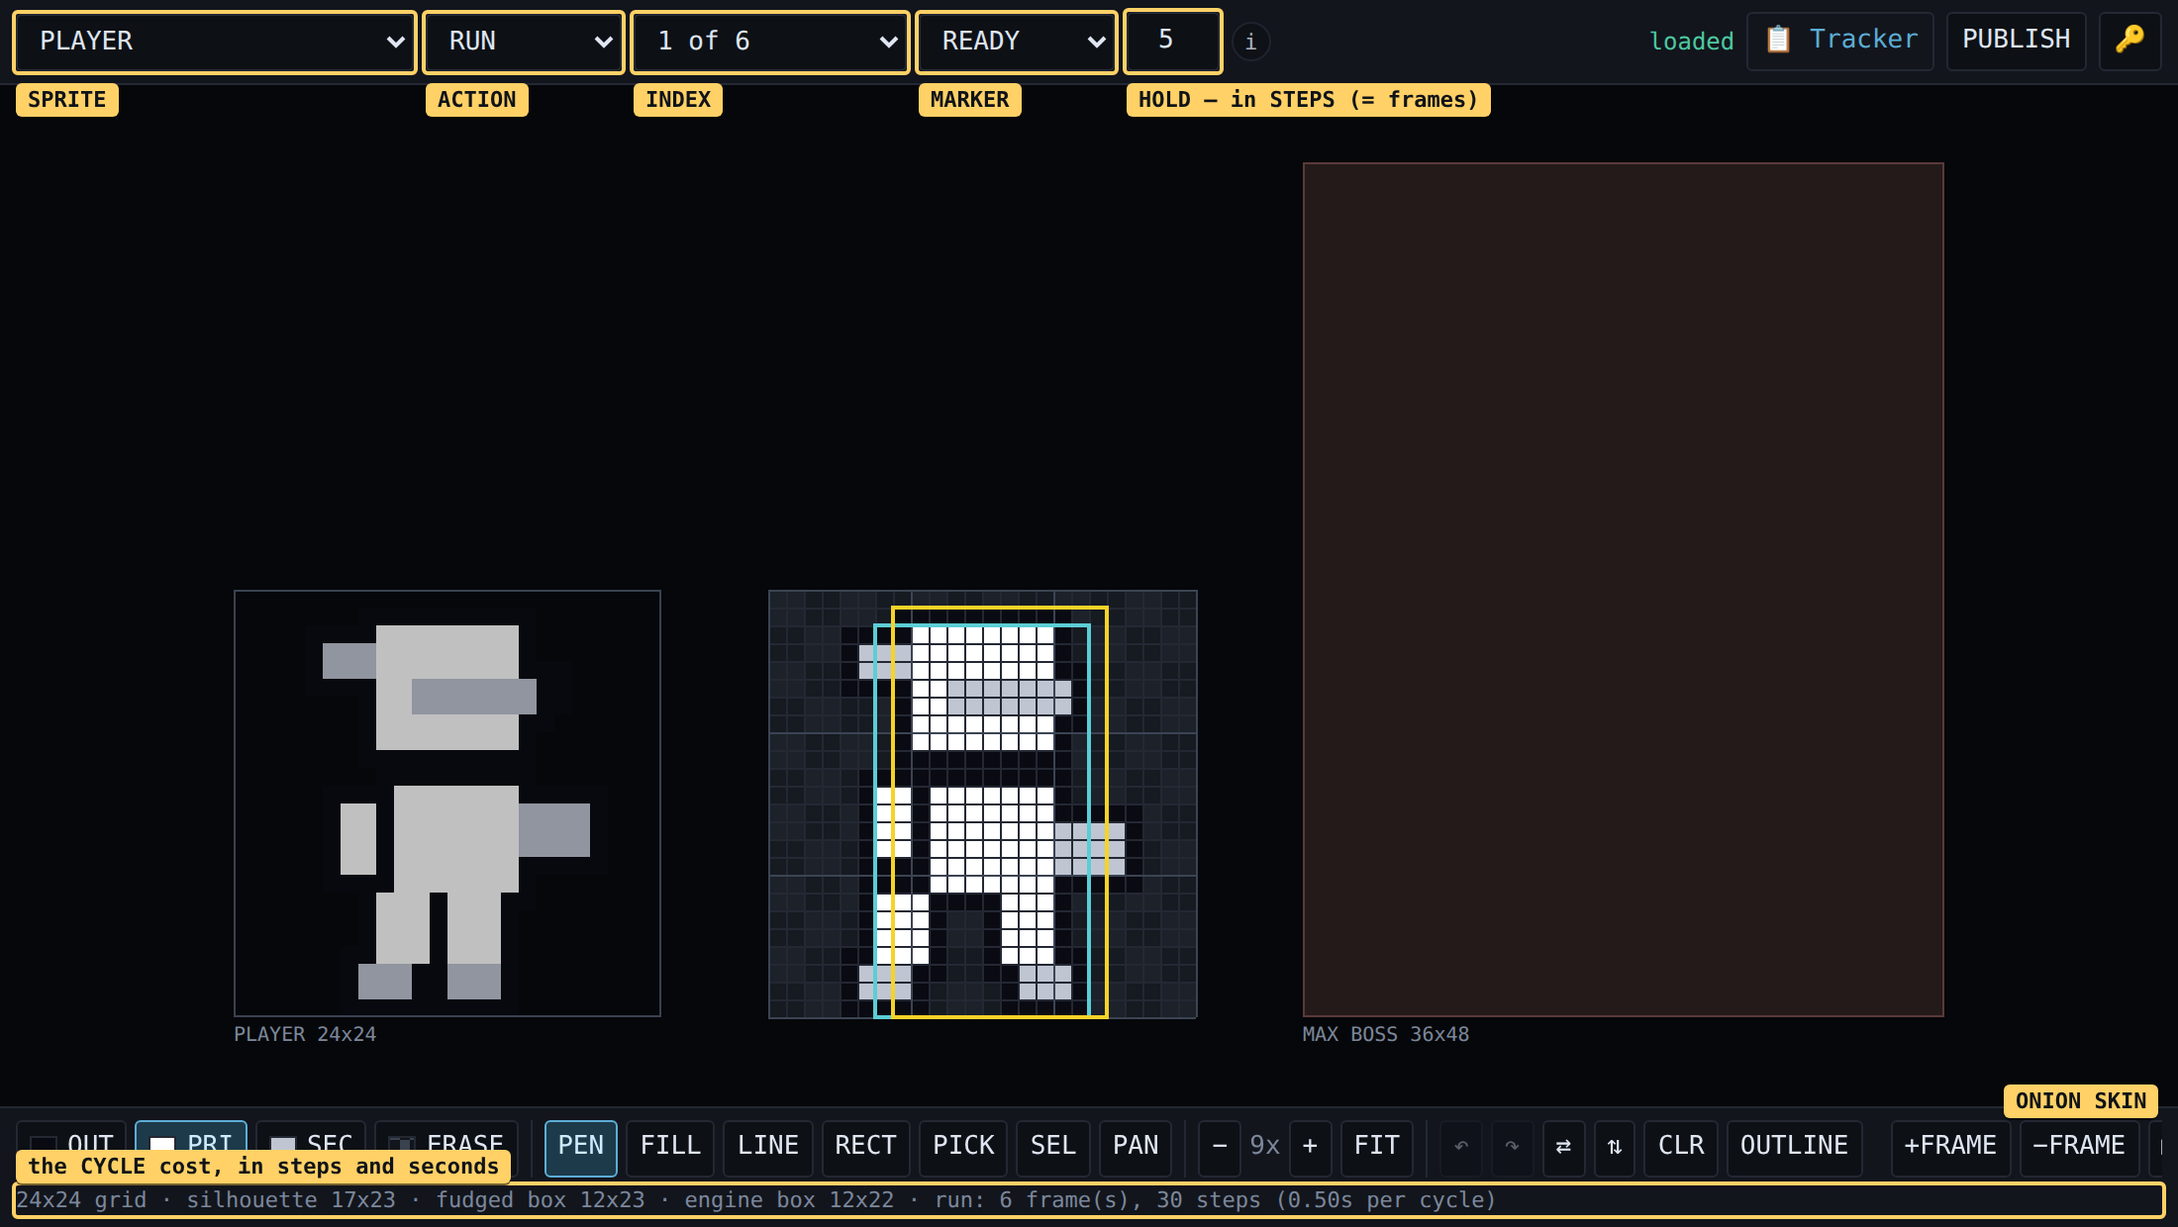
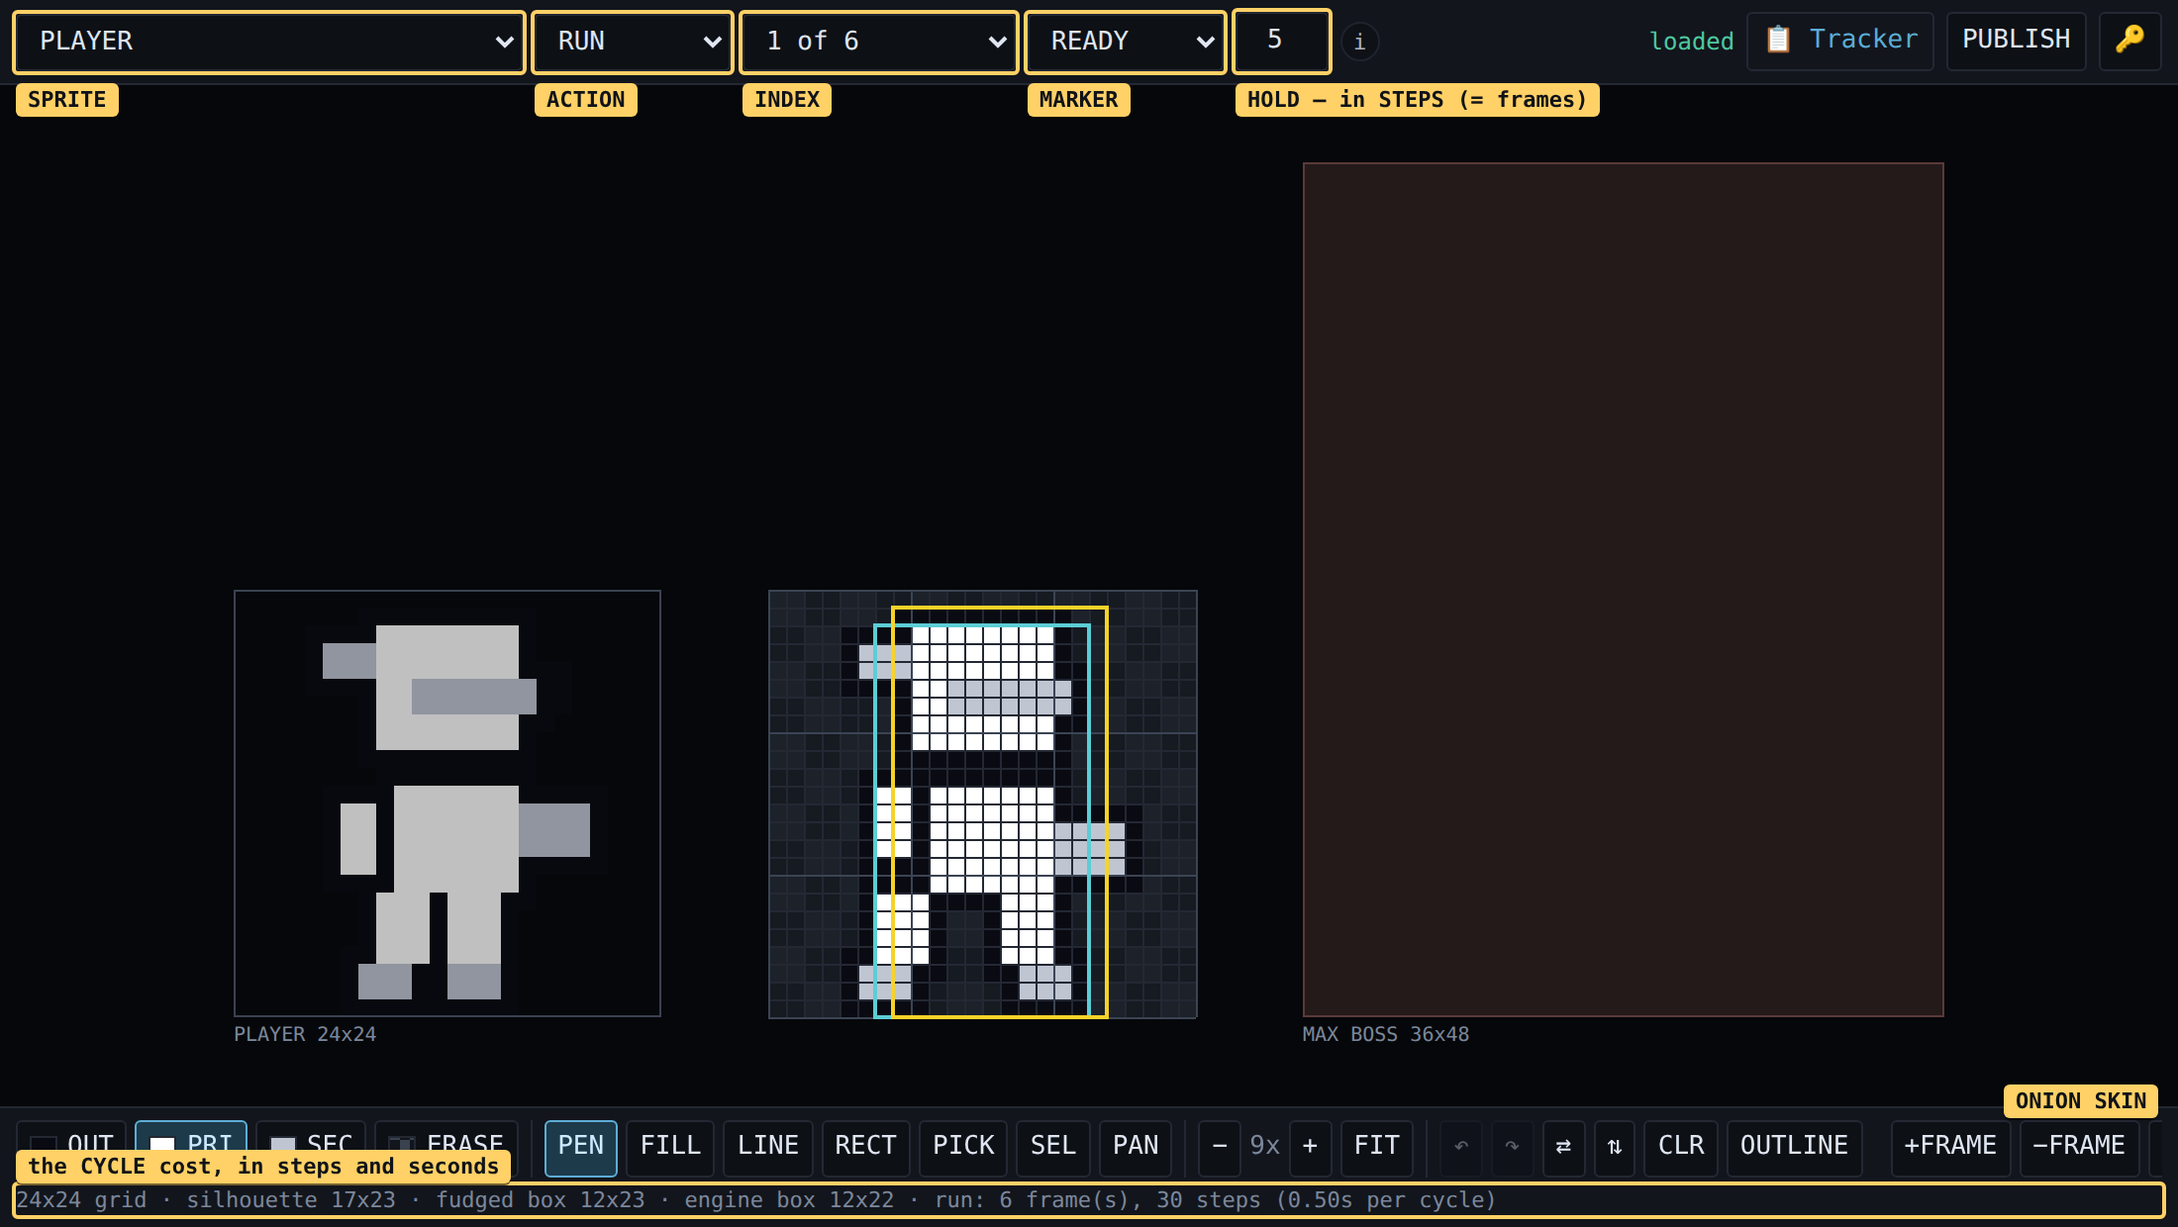
The glossary learns the game's own words
The glossary covered timing, pictures, the build pipeline, markers and
the engineering vocabulary — everything except the words the game
itself is made of. Five sections added, in plain English:

  A run, start to finish   run, area, door, arena, warp, layer, the
                           bag, ramp, slice
  Hitting and being hit    hurtbox, hitbox, i-frames, flinch,
                           knockback, beam out, projectile, hitscan,
                           puff, attribute
  Enemies                  minion, elite, boss, hazard, furniture
  Weapons and the loadout  sidearm, special, slot, bench, class,
                           live vs aimed, ladder, rung, mastery,
                           re-quip, the wheel, in-situ
  What you earn            EXP, level, weapon level, Chips, Upgrade,
                           meta, E-Tank

Where a word IS jargon it is named as jargon rather than defended.
`in-situ` is Latin for "in place" and gets a row saying so, because
the code will keep saying `SITU_TIMEOUT_MS` whatever this file calls
it — a glossary that only lists the nice words leaves the reader
stranded at the one that stopped them.

Added at the top: a word that is in the code but not on this page is
a bug in THIS page. Nothing here is allowed to need a word only its
author knows.

TRACKER.md, two things factually stale:

  the player's sprite grid said twelve frames in a 288x24 sheet; the
  owner drew a third slide pose and it is fourteen in 336x24
[…]

Changed region(s): [[0.1855, 0.0, 0.7418, 0.1226]]

diff --git a/design/TRACKER.md b/design/TRACKER.md
@@ -22,9 +22,14 @@ typo fix goes back in the queue to be re-checked instead of disappearing into
 `[wip]` where nothing looks at it. A larger edit is a rewrite and drops to
 `[wip]`. Editing a `[draft]` withdraws the go-ahead and drops to `[wip]`.
 
-Moving a field to `[draft]` yourself is the assertion that it may be built.
-Claude never writes `[draft]` — only `[ready]`, and only once the thing
-verifiably works.
+Moving a field to `[draft]` yourself is what says it may be built. Claude never
+writes `[draft]` — only `[ready]`, and only once the thing verifiably works.
+
+**Renaming something does not move a marker.** If a word changes across the
+whole repo — a boss id, a weapon name, jargon swapped for plain English — the
+field still describes the same built thing, so it keeps the marker it had.
+Moving markers on a rename would either un-build correct fields or have Claude
+handing out green lights, and neither is what a rename means.
 
 `[na]` is gone. "Deliberately not applicable" was a fifth state off the side of
 the ladder that three fields used, and each was a settled answer — which is what
@@ -40,11 +45,12 @@ comments in code may still describe it the other way round; this table wins.
 ## Weapon loadout
 
 A run carries up to **two offensive** and **two defensive** weapons. Every weapon
-field below says which class its weapon belongs to; that word is load-bearing,
-not flavour.
+field below says which class its weapon belongs to. The code READS that word to
+decide how the weapon plays, so it is not flavour — change it and the weapon
+changes.
 
 - **Offensive** weapons share the fire button. The re-quip wheel picks which one
-  is aimed. **The sidearm** (the old Mega Buster) is one of these — it occupies
+  is aimed. **The sidearm** is one of these — it occupies
   an offensive slot rather than riding above them for free.
 - **Defensive** weapons run on their own — a drone that auto-fires, a shield
   that maintains itself, a jetpack that vents on landing. They are not aimed.
@@ -61,8 +67,10 @@ the Hub. The two classes are separate upgrades, each rank 0 to 3.
 | 2 | both live at once; the second position is still the sidearm | two slots, one live |
 | 3 | second position freed — two specials, sidearm tradeable | two slots, both live |
 
-Where a rank caps how many may run, the press-and-hold on a slot becomes a
-switch *between* them rather than an on/off.
+Where a rank caps how many may run, tapping a slot switches *between* them
+rather than turning one on and off. There is no press-and-hold anywhere on
+either wheel — a hold and a tap meaning different things on the same disc is
+two gestures told apart by feel, with no feedback until after you committed.
 
 Inactive but unlocked weapons keep their levels for the rest of the run and
 still turn up on level-up cards. **Slots only change between fights** — from a
@@ -622,7 +630,7 @@ other field, and it becomes a thing to build rather than a thing to read.
 ## Player
 
 - **palette** `[ready]` Fixed white — the three colours baked into `public/sprites/player.png`, held in `PLAYER_PALETTE` so the constant and the sheet cannot disagree. He was blue (#1565C0) for the whole placeholder era and the owner's sheet arrived white; the art wins. White is also the strongest answer to "never lose sight of the player" against arenas running from Blaze Man's dark red to Eclipse Man's near-black.
-- **sprite grid** `[ready]` 24x24, the NES reference size. Twelve frames in one 288x24 sheet. The jump is registered as three one-frame clips rather than a loop, so the pose is picked from `vy` and the arc reads.
+- **sprite grid** `[ready]` 24x24, the NES reference size. Fourteen frames in one 336x24 sheet — twelve at the handoff, plus the third slide pose. The jump is registered as three one-frame clips rather than a loop, so the pose is picked from `vy` and the arc reads.
 - **equipment visuals** `[ready]` What the player is carrying is told by weapon hardware DRAWN ON him, never by his colour. Live recolouring of the suit from the source boss's palette is scrubbed and must not return: a tint multiplies the whole texture, so it was quietly blocking the real three-colour art, and a protagonist whose colour changes is one you have to re-find after every re-quip.
 - **collision box** `[ready]` The sprite box and the collision box are deliberately different. The silhouette changes constantly — arm cannon extends, legs tuck, slide flattens — and a hitbox that followed the art would make vulnerability change frame to frame. A stable narrower box is both precise and fair.
 - **movement** `[ready]` Walk, jump, gravity, terminal velocity, slide speed and duration are the classic NES Mega Man values converted from that game's 8.8 fixed point. A known-good reference feel to tune away from, not a finished tune.
@@ -638,10 +646,10 @@ other field, and it becomes a thing to build rather than a thing to read.
 
 ## The re-quip wheel
 
-- **in-situ mode** `[ready]` Opened by the RE-QUIP button mid-fight. Slow motion, HUD stays up, the ring is scenery at 0.16 alpha and not touchable. One tap or one diagonal swipe aims a slot or toggles it. Seven-second timeout as a dead man's handle.
-- **post-boss mode** `[ready]` Opens by itself after the boss detect animation has fully resolved plus a small delay. Hard pause, while staying in the boss room after their defeat, continue to use this Post Boss mode. This mode is the only way the loadout can be rearranged. Two taps in either order — a weapon then a module, or a module then a weapon. Continue allowing adjustments until the player taps outside the wheel
+- **mid-fight wheel** `[ready]` Opened by the RE-QUIP button during a fight. Slow motion, HUD stays up, the ring of weapons is dimmed to scenery and cannot be touched — you may aim a slot or switch one off, and nothing else. One tap, or one diagonal swipe. It closes itself after seven seconds, because slow motion with no way out is a soft lock for anyone who opened it by accident. The code calls this mode `in-situ`, which is Latin for "in place"; `SITU_TIMEOUT_MS` is that seven seconds.
+- **between-fights wheel** `[ready]` Opens by itself after the boss death animation has fully resolved plus a small delay. Hard pause, while staying in the boss room after their defeat, continue to use this Post Boss mode. This mode is the only way the loadout can be rearranged. Two taps in either order — a weapon then a module, or a module then a weapon. Continue allowing adjustments until the player taps outside the wheel
 - **ring layout** `[ready]` An oval, because the playfield is 224 tall and 320-480 wide. Arc positions fan out from the centre as weapons unlock, spreading at the full arc's step so a weapon lands where it will eventually live. Trades absolute position for relative position deliberately. Maintain a distinct gap between the top half and the bottom half separating offensive slots and offensive weapons vs defensive slots and defensive weapons
-- **keyboard and gamepad** `[ready]` There is no way to re-quip without a mouse or a touchscreen. The in-situ wheel has Q/E/Z/C; the post-boss wheel shall have a simple cursor to cycle through the weapon you want attached and the slot you want it attached to. Repeat until escape key or jump key
+- **keyboard and gamepad** `[ready]` There is no way to re-quip without a mouse or a touchscreen. The mid-fight wheel has Q/E/Z/C; the between-fights wheel shall have a simple cursor to cycle through the weapon you want attached and the slot you want it attached to. Repeat until escape key or jump key
 
 ## Minions
 
@@ -652,7 +660,7 @@ other field, and it becomes a thing to build rather than a thing to read.
 ## HUD and controls
 
 - **touch layout** `[ready]` Four zones. Movement is four adjacent real buttons, not an invisible band; jump and fire are separate pads so both can be held. A held input ends when the finger lifts, never when it wanders off a 44px pad.
-- **keyboard** `[ready]` A/D walks, W aims up, RSHIFT fires, double tap jump to cancel into a slide, SPACE jumps, Q or E open the in-situ wheel. Q, E, ESC closes it. Esc or Enter pauses and brings up pause menu. Esc or enter key while Resume is cursored closes and unpauses. Esc closes post boss requip wheel
+- **keyboard** `[ready]` A/D walks, W aims up, RSHIFT fires, double tap jump to cancel into a slide, SPACE jumps, Q or E open the mid-fight wheel. Q, E, ESC closes it. Esc or Enter pauses and brings up pause menu. Esc or enter key while Resume is cursored closes and unpauses. Esc closes the between-fights wheel
 - **slide** `[ready]` Double-tap jump. The jump always wins the first tap — detecting a double-tap first would put latency on every jump in the game — and the second tap inside the window puts the player back where he launched and slides instead.
 - **font** `[ready]` A hand-authored 5x7 bitmap font. `fold()` silently drops any glyph it lacks, so HUD strings stay inside plain uppercase, digits and spaces.
 - **dev HUD** `[ready]` A `[DEV]` marker whenever dev mode is on, plus a diagnostic line carrying the build, the run's world seed, and render density with the viewport it was picked from. The marker is not switchable; the diagnostic line is.

diff --git a/design/GLOSSARY.md b/design/GLOSSARY.md
@@ -3,6 +3,11 @@
 The vocabulary the tracker, the sprite editor and the code all use. If a word here
 means something different in a field you are writing, the word is wrong, not the field.
 
+**If you meet a word in the code, in CLAUDE.md or in a tracker field that is not on this
+page, that is a bug in THIS FILE.** Say so and it gets added. Nothing in this project is
+allowed to need a word only its author knows — a name that has to be explained in person
+is a name that will be wrong in six months and nobody will notice.
+
 ---
 
 ## FRAMES ARE STEPS. This is the alias, and it is the important line on the page.
@@ -58,6 +63,72 @@ it reads better. Nobody has to translate.
 | **collision box** | The invisible rectangle the game uses for hits. Deliberately not the same as the drawing. |
 | **fudge factor** | The ratio between the two. 0.70 wide, 1.00 tall. |
 
+## A run, start to finish
+
+| term | meaning |
+|---|---|
+| **run** | One playthrough — title screen until you die or quit. Almost nothing survives it: you keep Chips and boss layers, and lose weapons, levels and EXP. |
+| **area** | The scrolling outdoor stretch between boss doors. Built fresh every run, so no two walks cover the same ground. |
+| **door** | What you walk into to start a boss fight. It turns up on a timer as the area scrolls. |
+| **arena** | The boss room. Exactly one screen wide, walls both sides, no ordinary enemies — so the whole fight stays in view and the camera never has to choose. |
+| **warp** | How you get into the arena. The screen freezes and fades rather than you walking through the door, so the room is never seen half-built. |
+| **layer** | How hard one particular boss fights, 1 to 3. It rises with how many times you have beaten **him**, and never falls back. |
+| **the bag** | How the next boss is picked. All seventeen go in, one comes out, and none repeats until the bag empties. Borrowed from how Tetris picks pieces. |
+| **ramp** | Difficulty rising with how long the run has lasted. Keyed to TIME, not distance — standing still does not pause it. |
+| **slice** | One boss built all the way through: his fight, his room, his hazards and his weapon. The unit of work on this project, and why the plan is "one element at a time". |
+
+## Hitting, and being hit
+
+| term | meaning |
+|---|---|
+| **hurtbox** | The invisible rectangle where a character CAN BE hurt. |
+| **hitbox** | The invisible rectangle that DOES the hurting. Two words one letter apart, which is unhelpful and is what the industry calls them. |
+| **i-frames** | Short for *invulnerability frames*: the moment after taking a hit where nothing can hit you again. It is why you flicker. |
+| **flinch / knockback** | The stagger and the shove that every hit causes. Present on every hit regardless of element — they are NOT status effects. |
+| **beam out** | What a pit or a spike bed does to you: massive damage, then lifted off the screen and set down at the nearest safe spot. Never an instant death, and it is what stops spikes being walkable. |
+| **projectile** | A bullet — a thing that travels and can be dodged. |
+| **hitscan** | A weapon with no bullet at all: it hits instantly wherever you aimed. The Volt Spark is one. |
+| **puff** | The little burst drawn where something landed. A hitscan weapon has no bullet to draw, so its art hangs off a puff instead. |
+| **attribute** | An elemental status — Burn, Wet, Stun and so on. Each has a **terrain form** (the ground is Hot) and a **character form** (you are Burning). |
+
+## Enemies
+
+| term | meaning |
+|---|---|
+| **minion** | An ordinary enemy. There are exactly two, and they are weather rather than events: SPIGLET walks the ground, DRIFTER floats. |
+| **elite** | A tougher version of a minion, same size and shape, told apart by a gold outline. |
+| **boss** | One of the seventeen, one per element. An event, met behind a door. |
+| **hazard** | The room hurting you on its own timer, separately from the boss. Every arena runs both at once. |
+| **furniture** | The things built into a boss room that its hazards need — platforms, turrets, conveyors. |
+
+## Weapons, and what you are carrying
+
+| term | meaning |
+|---|---|
+| **sidearm** | The gun you always start with. It takes up one of your offensive slots rather than riding above them for free. |
+| **special** | Any of the seventeen boss weapons. You get one by beating the boss who carries it. |
+| **slot** | A position in your loadout that a weapon sits in. You have at most two offensive and two defensive. |
+| **bench** | Where an unlocked weapon sits when it is not in a slot. It still gains levels there and is one tap from going in. |
+| **class** | Whether a weapon is **offensive** (shares the fire button, you aim it) or **defensive** (runs by itself — a drone, a shield, a jetpack). |
+| **live / aimed** | Two different things. Several weapons can be *live* (running); exactly one offensive weapon is *aimed* (on the fire button). |
+| **ladder / rung** | A weapon's list of upgrades by level. Each **rung** — levels 1, 3, 6 and 10 — adds a real feature; the levels between just add damage. |
+| **mastery** | The meta upgrade that decides how many slots you own at all, and how many run at once. Rank 0 to 3, bought separately for each class. |
+| **re-quip** | Changing which weapons are in your slots. Coined here; it just means re-equip. |
+| **the wheel** | The screen where you do it. Two modes: the **mid-fight wheel** (slow motion, aim or switch off a slot, nothing else) and the **between-fights wheel** (hard pause, actually swap weapons). |
+| **in-situ** | The code's name for the mid-fight wheel. It is Latin for "in place" and it is jargon — `SITU_TIMEOUT_MS` is that mode's seven-second cut-off. |
+
+## What you earn
+
+| term | meaning |
+|---|---|
+| **EXP** | Dropped by enemies, and you have to walk over it to collect it. 100 makes a level. |
+| **level** | Your level THIS RUN. It buys a weapon upgrade from a card screen, and it is gone when the run ends. |
+| **weapon level** | Separate, per weapon, 1 to 10. What climbs a ladder. |
+| **Chips** | The currency that SURVIVES a run, earned from score and boss kills. Never called Bolts. |
+| **Upgrade** | A permanent boost bought with Chips in the Hub. Twenty-five of them. |
+| **meta** | Anything that outlives a single run — Chips, Upgrades, boss layers. The opposite of *run-scoped*. |
+| **E-Tank** | A health refill. A pickup, and also one of the level-up cards. |
+
 ## The pipeline
 
 | term | meaning |
@@ -104,8 +175,10 @@ pixels) drops to `draft` so it gets re-checked; anything larger drops to `wip`.
 Both shots are the real apps with the glossary's words laid over the controls they name.
 They are regenerated by `tools/glossary-shots.mjs`, so they cannot drift from the UI.
 
-**The tracker** — a field, its marker and its prose. This is Thorn Man's `arena furniture`
-sitting at `draft`, which is the marker that means *build it*.
+**The tracker** — a field, its marker and its prose. Whichever field the shot lands on, the
+three parts are always the same: the label, the dropdown holding its marker, and the text.
+The caption used to name one field and one marker; the generator picks the row itself, so
+the caption was wrong the moment that field moved on.
 
 ![the tracker, labelled](glossary-tracker.png)
 
